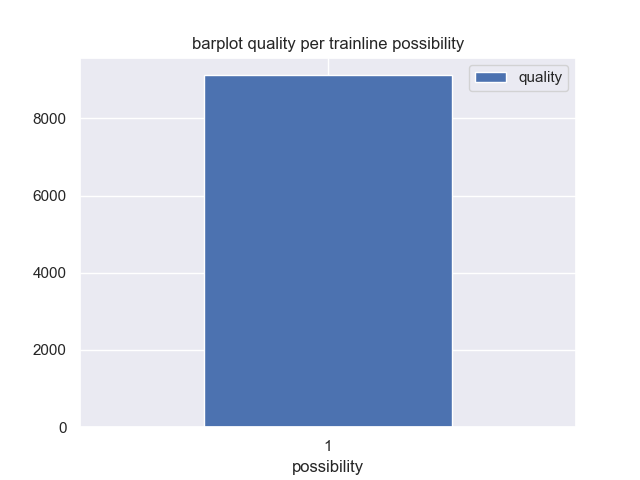
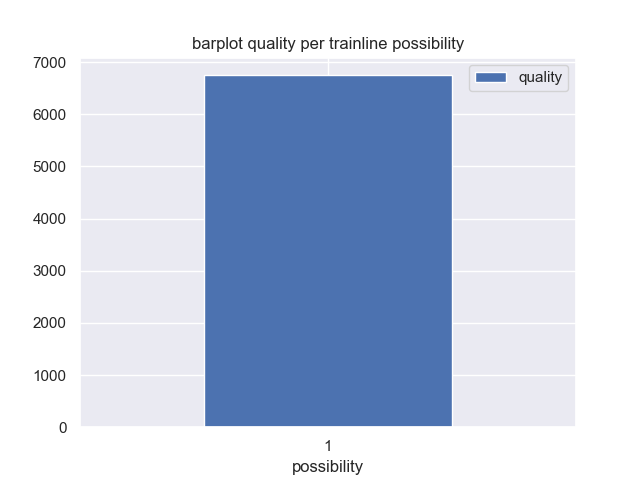
Experiment gestart

diff --git a/simulated_annealing_dis.py b/simulated_annealing_dis.py
@@ -1,0 +1,40 @@
+import os
+import pandas as pd
+import matplotlib.pyplot as plt
+
+from codes.algorithms.simulated_annealing import Simulated_Annealing_Rail
+from codes.classes.network import Network
+from codes.classes.graph import Graph
+from codes.calculations.line_quality import K, load_connections
+from pathlib import Path
+from progress.spinner import Spinner
+
+
+PATH = Path(os.path.dirname(os.path.realpath(__file__)))
+SCORE_CONNECTIONS = load_connections(PATH / "data" / "ConnectiesNationaal.csv")
+
+def main():
+    graph = Graph(PATH / "data" / "StationsNationaal.csv", PATH / "data" / "ConnectiesNationaal.csv")
+    base_network = Network(PATH / "data" / "output_nat.csv", graph.stations)
+
+    scores = {}
+
+        
+    spinner = Spinner('Running')
+    for iteration in range(100):
+        network, score = Simulated_Annealing_Rail(base_network, 180, 20, 100, 20, SCORE_CONNECTIONS).run()
+
+        if score in scores:
+            scores[score] += 1
+        else:
+            scores[score] = 1
+        spinner.next()
+
+    
+    data = pd.Series(scores)
+    ax = data.plot.bar(x="score", y="amount")
+    plt.show()
+
+
+if __name__ == "__main__":
+    main()

diff --git a/codes/algorithms/simulated_annealing.py b/codes/algorithms/simulated_annealing.py
@@ -198,7 +198,7 @@ class Simulated_Annealing_Rail():
             sliced_out, original_traject_number = self.rearrange_tracks(original_traject_number, sliced_out)
             tries += 1
 
-            if tries == 100:
+            if tries == 100 and not sliced_out:
                 sliced_out = self.place_sliced_element(sliced_out)
 
     def trajects_in_time(self, original_traject_number, sliced_out, tries):
@@ -212,7 +212,7 @@ class Simulated_Annealing_Rail():
             tries += 1
 
             # place the sliced out traject in its own traject after 100 iterations
-            if tries == 100:
+            if tries == 100 and not sliced_out:
                 sliced_out = self.place_sliced_element(sliced_out)
 
             # check if there are more trajects not in time
